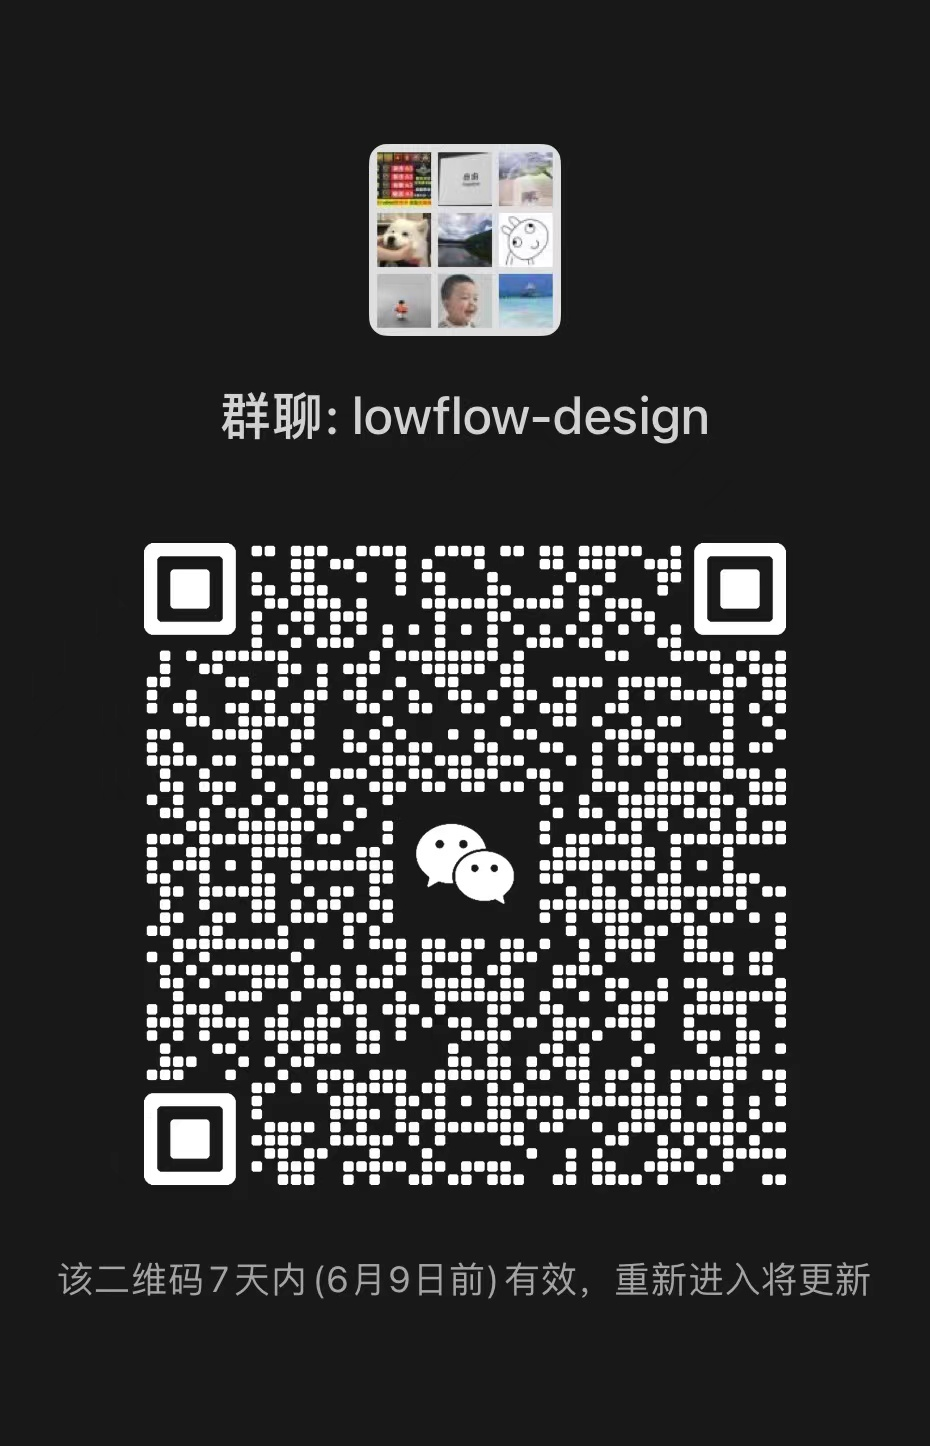
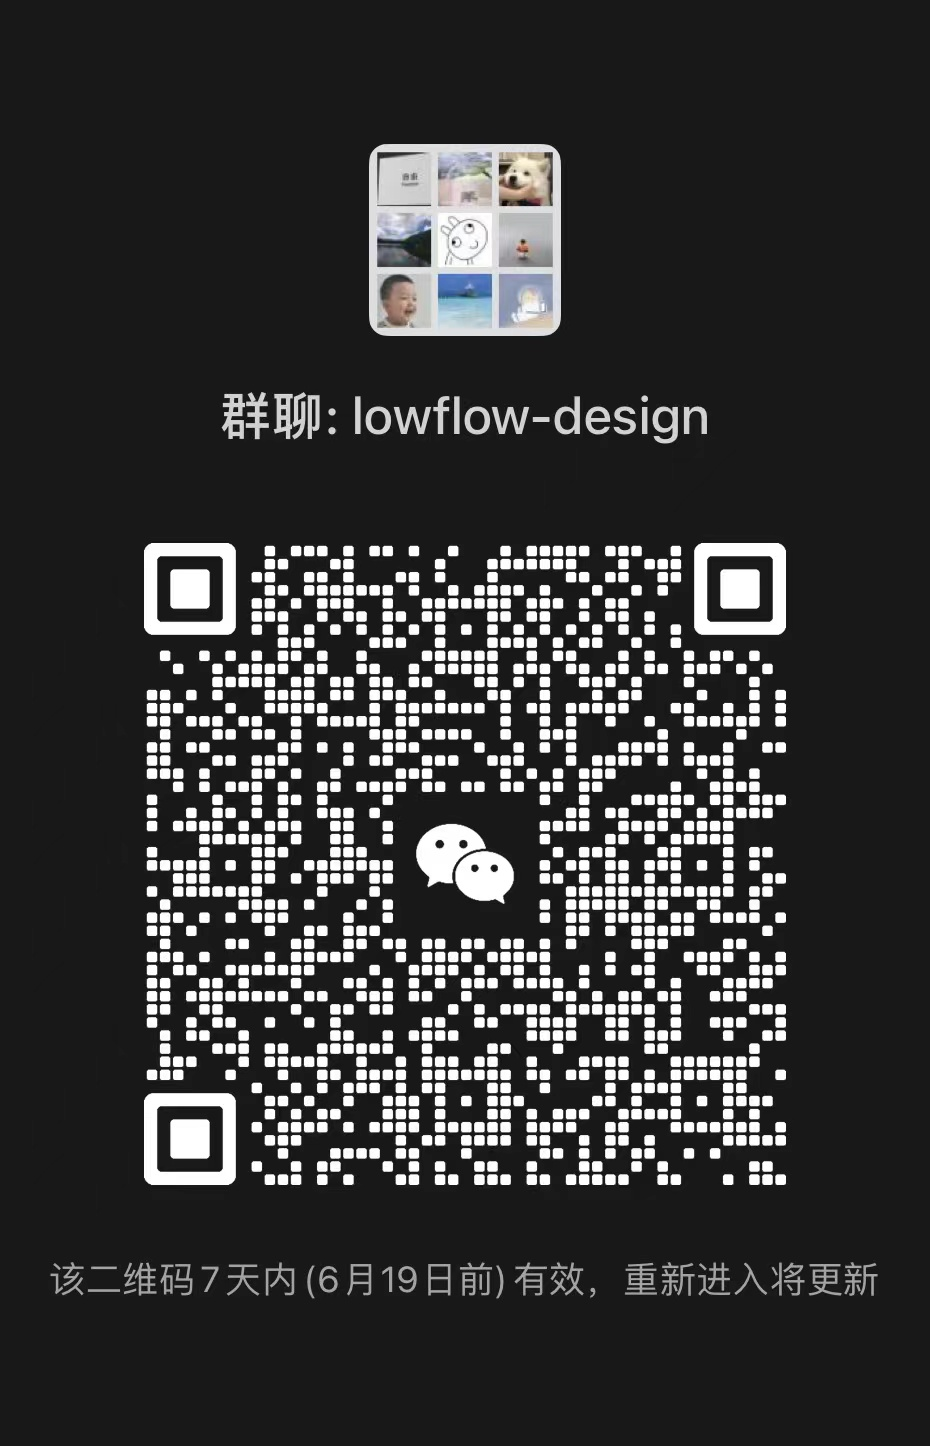
更新wx群

diff --git a/src/views/flowDesign/panels/ApprovalPanel.vue b/src/views/flowDesign/panels/ApprovalPanel.vue
@@ -105,9 +105,9 @@ watchEffect(() => {
             <el-radio value="joint">会签（需要所有审批人都通过）</el-radio>
             <el-radio value="single">或签（其中一名审批人通过即可）</el-radio>
           </el-radio-group>
-          <div v-if="activeData.multi === 'joint'">
+          <el-text v-if="activeData.multi === 'joint'">
             需要 <el-input-number v-model="activeData.multiPercent" :min="1" :max="100" /> %人员通过
-          </div>
+          </el-text>
         </el-form-item>
         <el-form-item prop="nobody" label="审批人为空">
           <el-radio-group v-model="activeData.nobody" class="w-full">
